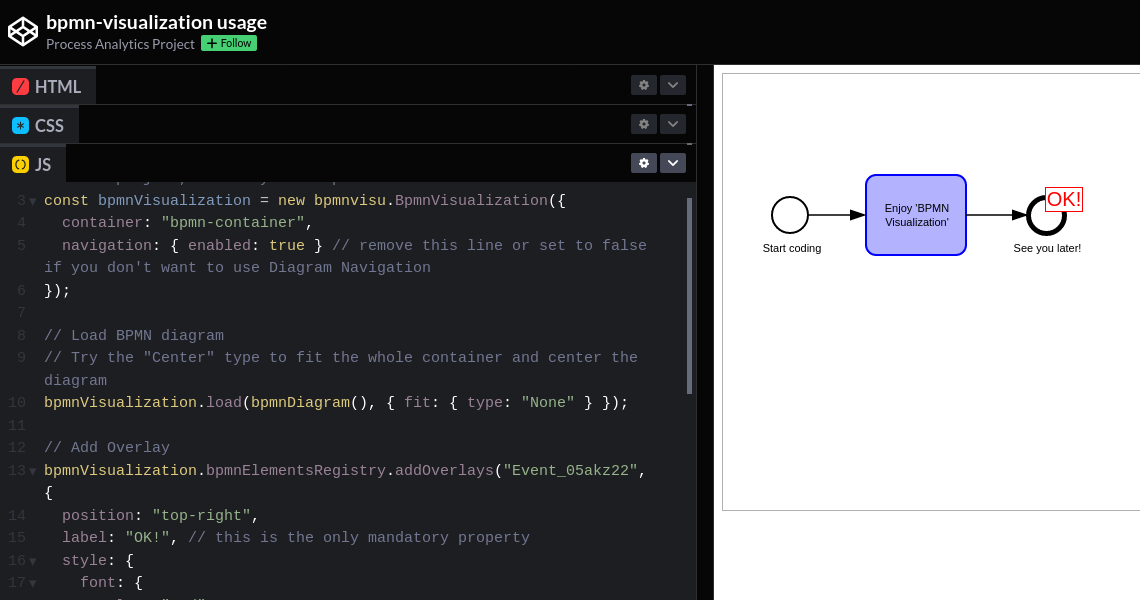
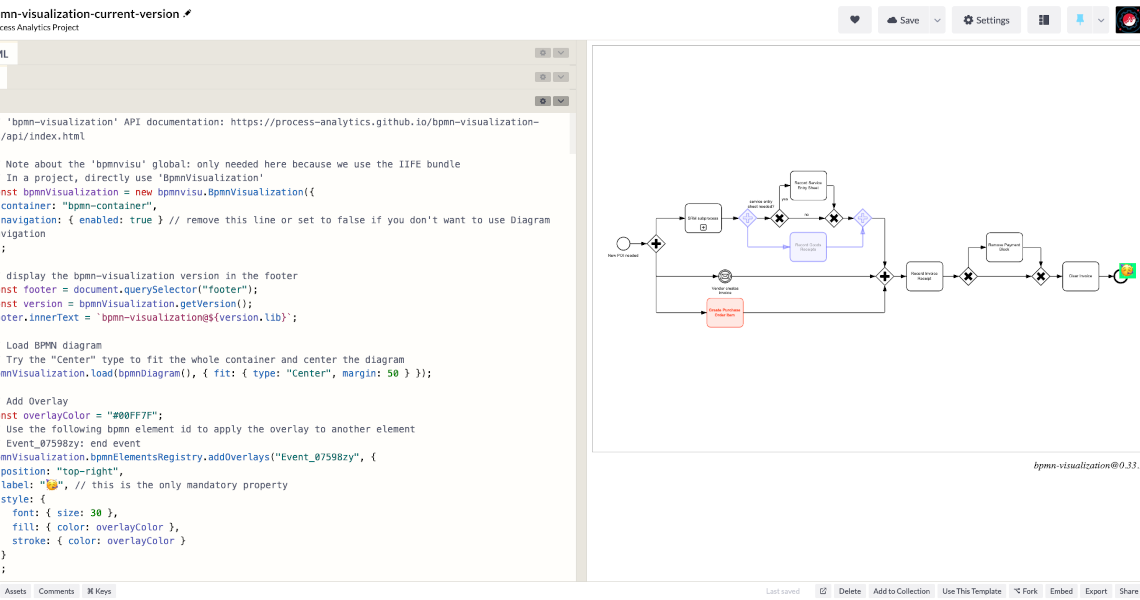
feat: update the links to the live IDE examples (#488)
Add the documentation to archive an old version of live IDE example.

diff --git a/examples/index.html b/examples/index.html
@@ -730,7 +730,7 @@ limitations under the License.
                 <h2 class="bg-dark">Miscellaneous</h2>
                 <div class="columns">
                     <div class="col-md-12 col-4 p-2">
-                        <a href="https://codesandbox.io/s/bpmn-visualization-sandbox-hpvq8" target="_blank" class="card-link">
+                        <a href="https://codesandbox.io/s/bpmn-visualization-sandbox-current-version-owu7y5" target="_blank" class="card-link">
                             <div class="card p-2">
                                 <div class="card-header">
                                     <div class="card-title">CodeSandbox JavaScript Template</div>
@@ -747,7 +747,7 @@ limitations under the License.
                         </a>
                     </div>
                     <div class="col-md-12 col-4 p-2">
-                        <a href="https://codesandbox.io/s/bpmn-visualization-ts-sandbox-erkrbc" target="_blank" class="card-link">
+                        <a href="https://codesandbox.io/s/bpmn-visualization-ts-sandbox-current-version-1uwb6f" target="_blank" class="card-link">
                             <div class="card p-2">
                                 <div class="card-header">
                                     <div class="card-title">CodeSandbox TypeScript Template</div>
@@ -764,7 +764,7 @@ limitations under the License.
                         </a>
                     </div>
                     <div class="col-md-12 col-4 p-2">
-                        <a href="https://codepen.io/process-analytics/pen/YzQzROg" target="_blank" class="card-link">
+                        <a href="https://codepen.io/process-analytics/pen/yLRbygP" target="_blank" class="card-link">
                             <div class="card p-2">
                                 <div class="card-header">
                                     <div class="card-title">Play with the <code>bpmn-visualization</code> API in Codepen</div>

diff --git a/CONTRIBUTING.md b/CONTRIBUTING.md
@@ -110,6 +110,23 @@ git push --force-with-lease 25-annotations_to_tasks
 
 At this point, you're ready to make your changes! Feel free to ask for help. Everyone is a beginner at first :smile_cat:
 
+### Update an Example in Live IDE
+To update an example in a live IDE, follow these steps if you need to make significant changes to the example (not just updating the `bpmn-visualization` version):
+
+1. Fork the current version of the example, named `<EXAMPLE_NAME>-current-version`.
+
+2. Rename the fork with the version of `bpmn-visualization` that it uses, like `<EXAMPLE_NAME>-v<BPMN_VISUALIZATION_VERSION>`.
+
+3. Modify the current version of the example.
+
+4. Ensure that the link to the current version of the example has not changed.
+
+5. For Codesandbox, ensure that both the current and old versions of the example are frozen. This means that they cannot be edited or modified. 
+
+6. For Codepen, ensure that the current version of the example is pinned. The old version should not be pinned.
+
+
+
 
 ## Maintainers
 

diff --git a/README.md b/README.md
@@ -138,9 +138,9 @@ Custom BPMN Theme features will be progressively added to `bpmn-visualization`. 
 
 <a id="live_ide"></a>
 #### Playgrounds in live IDE
-- [CodeSandbox `bpmn-visualization` JavaScript Template](https://codesandbox.io/s/bpmn-visualization-sandbox-hpvq8) - Play with the `bpmn-visualization` JavaScript API. Use the template to demonstrate missing features or bugs.
-- [CodeSandbox `bpmn-visualization` TypeScript Template](https://codesandbox.io/s/bpmn-visualization-ts-sandbox-erkrbc) - Play with the `bpmn-visualization` TypeScript API. Use the template to demonstrate missing features or bugs.
-- [Play with the `bpmn-visualization` API in Codepen](https://codepen.io/process-analytics/pen/YzQzROg) - Experiment `bpmn-visualization` integration and API usage live in your browser
+- [CodeSandbox `bpmn-visualization` JavaScript Template](https://codesandbox.io/s/bpmn-visualization-sandbox-current-version-owu7y5) - Play with the `bpmn-visualization` JavaScript API. Use the template to demonstrate missing features or bugs.
+- [CodeSandbox `bpmn-visualization` TypeScript Template](https://codesandbox.io/s/bpmn-visualization-ts-sandbox-current-version-1uwb6f) - Play with the `bpmn-visualization` TypeScript API. Use the template to demonstrate missing features or bugs.
+- [Play with the `bpmn-visualization` API in Codepen](https://codepen.io/process-analytics/pen/yLRbygP) - Experiment `bpmn-visualization` integration and API usage live in your browser
 
 #### Compare with other libs
 - [Compare `bpmn-visualization` with `bpmn-js`](./examples/misc/compare-with-bpmn-js/README.md) - compare the libraries on BPMN elements rendering, navigation and API usage